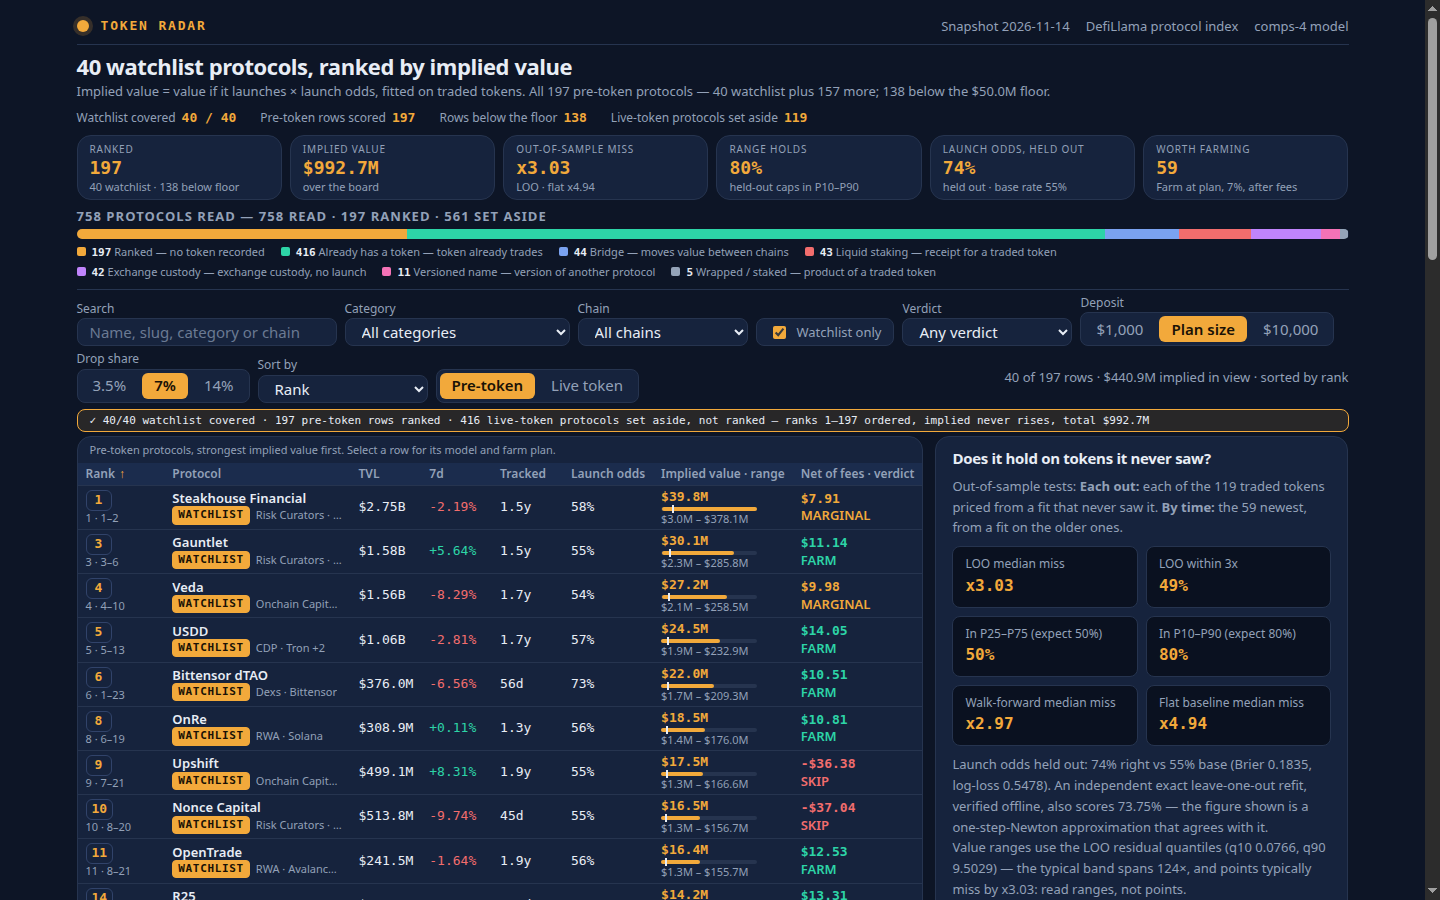
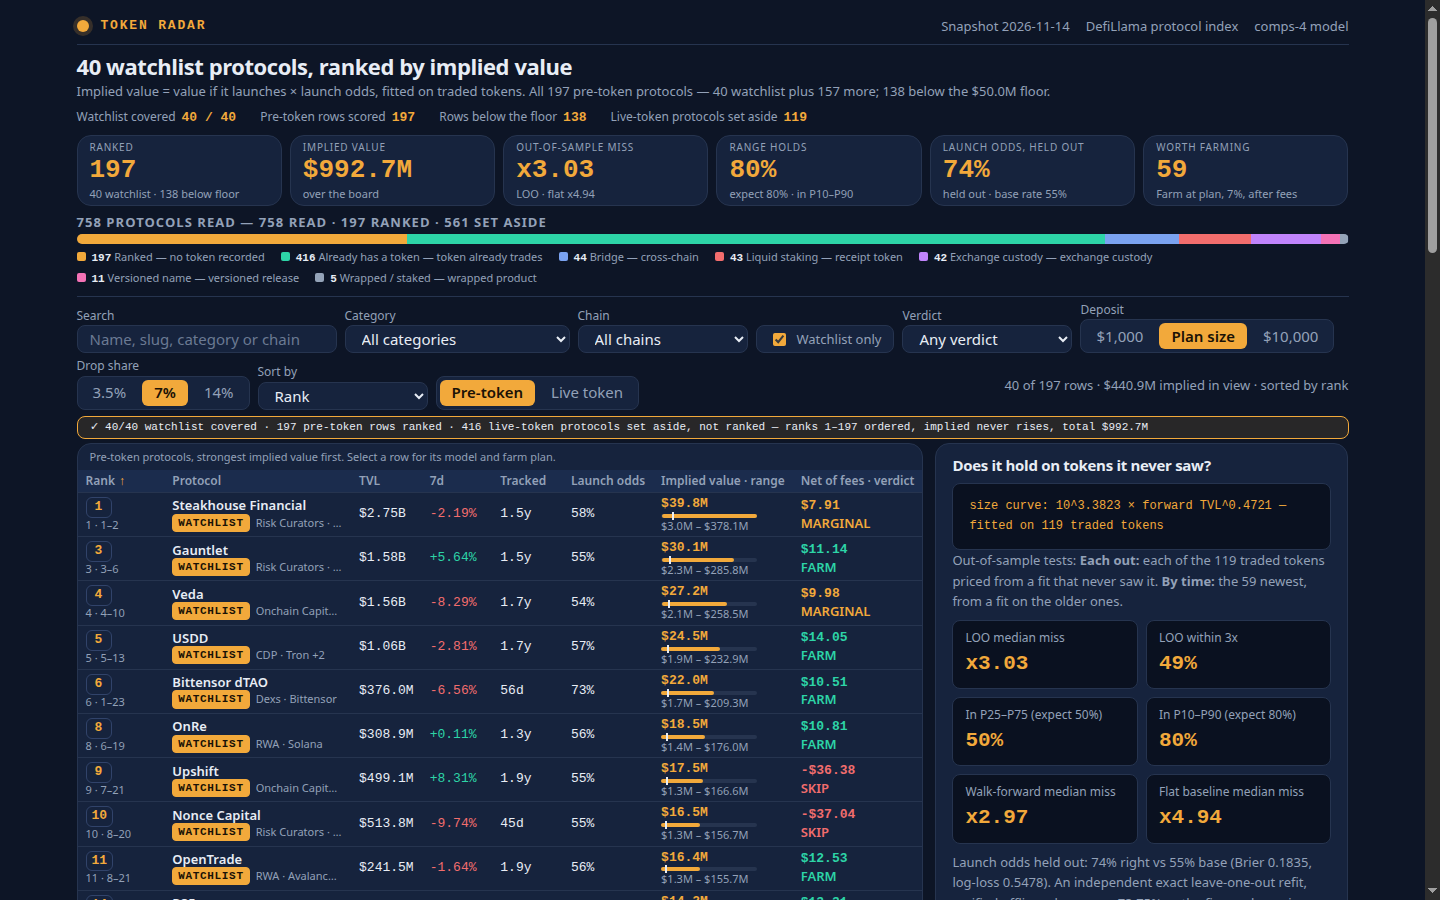
token-radar-01: comps-9 — bigger validation numbers in shot 1 (26px KPI, fitted-curve formula box, 21px validation tiles); model unchanged

diff --git a/dashboard/app.js b/dashboard/app.js
@@ -181,7 +181,7 @@ var tiles = [
 ['Ranked', String(k.ranked !== undefined ? k.ranked : DATA.board_size), (DATA.watchlist_size || 0) + ' watchlist · ' + rowsAll.filter(function (r) { return r.tvl_usd < DATA.floor_usd; }).length + ' below floor'],
 ['Implied value', fmtUsd(total), 'over the board'],
 ['Out-of-sample miss', (k.loo_miss !== undefined ? k.loo_miss : k.loo_median_miss) !== undefined ? 'x' + (k.loo_miss !== undefined ? k.loo_miss : k.loo_median_miss).toFixed(2) : 'n/a', 'LOO · flat x' + (DATA.validation && DATA.validation.flat_baseline ? DATA.validation.flat_baseline.median_miss.toFixed(2) : 'n/a')],
-['Range holds', k.range_holds_pct !== undefined ? Math.round(k.range_holds_pct) + '%' : 'n/a', 'held-out caps in P10–P90'],
+['Range holds', k.range_holds_pct !== undefined ? Math.round(k.range_holds_pct) + '%' : 'n/a', 'expect 80% · in P10–P90'],
 ['Launch odds, held out', k.launch_odds_accuracy_pct !== undefined ? Math.round(k.launch_odds_accuracy_pct) + '%' : 'n/a', 'held out · base rate ' + (DATA.validation && DATA.validation.launch_odds ? Math.round(DATA.validation.launch_odds.base_rate_pct) + '%' : 'n/a')],
 ['Worth farming', String(worth), 'Farm at plan, 7%, after fees']
 ];
@@ -189,7 +189,7 @@ $('kpi').innerHTML = tiles.map(function (t) { return '<div class="kpi-tile"><spa
 }
 var ACCT_COLORS = ['#f2a93b', '#2dd4a7', '#7aa2f0', '#f26d6d', '#c084fc', '#f472b6', '#94a3b8', '#eab308', '#38bdf8', '#a3e635'];
 var ACCT_LABEL = { 'Ranked — pre-token, standalone': 'Ranked', 'Liquid staking / restaking': 'Liquid staking', 'Exchange custody (CEX)': 'Exchange custody', 'Wrapped / staked by name': 'Wrapped / staked' };
-var ACCT_SHORT = { 'Ranked — pre-token, standalone': 'no token recorded', 'Already has a token': 'token already trades', 'Bridge': 'moves value between chains', 'Liquid staking / restaking': 'receipt for a traded token', 'Exchange custody (CEX)': 'exchange custody, no launch', 'Versioned name': 'version of another protocol', 'Wrapped / staked by name': 'product of a traded token' };
+var ACCT_SHORT = { 'Ranked — pre-token, standalone': 'no token recorded', 'Already has a token': 'token already trades', 'Bridge': 'cross-chain', 'Liquid staking / restaking': 'receipt token', 'Exchange custody (CEX)': 'exchange custody', 'Versioned name': 'versioned release', 'Wrapped / staked by name': 'wrapped product' };
 function renderAccounting() {
 var acc = DATA.accounting;
 var sec = document.querySelector('.acct');
@@ -272,7 +272,8 @@ if (v.walkforward && v.walkforward.median_miss > v.loo.median_miss * 1.2) caveat
 if (v.flat_baseline && v.flat_baseline.median_miss <= v.loo.median_miss) caveats.push('Flat baseline (x' + v.flat_baseline.median_miss.toFixed(2) + ') matches the fitted curve — the curve adds little here.');
 if (v.launch_odds && v.launch_odds.accuracy_pct < v.launch_odds.base_rate_pct) caveats.push('Launch odds call fewer right (' + Math.round(v.launch_odds.accuracy_pct) + '%) than the ' + Math.round(v.launch_odds.base_rate_pct) + '% base rate — the odds add no signal here.');
 if (!caveats.length) caveats.push('Small figures miss worst.');
-vel.innerHTML = '<p class="sub">Out-of-sample tests: <b>Each out:</b> each of the ' + (v.loo.n || 0) + ' traded tokens priced from a fit that never saw it. <b>By time:</b> the ' + (v.walkforward ? v.walkforward.n : 0) + ' newest, from a fit on the older ones.</p>' +
+vel.innerHTML = '<p class="formula">size curve: 10^' + M.curve_a + ' × forward TVL^' + M.curve_b + ' — fitted on ' + (v.loo.n || 0) + ' traded tokens</p>' +
+'<p class="sub">Out-of-sample tests: <b>Each out:</b> each of the ' + (v.loo.n || 0) + ' traded tokens priced from a fit that never saw it. <b>By time:</b> the ' + (v.walkforward ? v.walkforward.n : 0) + ' newest, from a fit on the older ones.</p>' +
 '<div class="vstat"><div><span>LOO median miss</span><b>x' + v.loo.median_miss.toFixed(2) + '</b></div><div><span>LOO within 3x</span><b>' + Math.round(v.loo.within_3x_pct) + '%</b></div><div><span>In P25–P75 (expect 50%)</span><b>' + Math.round(v.loo.in_p25_p75_pct) + '%</b></div><div><span>In P10–P90 (expect 80%)</span><b>' + Math.round(v.loo.in_p10_p90_pct) + '%</b></div><div><span>Walk-forward median miss</span><b>x' + (v.walkforward ? v.walkforward.median_miss.toFixed(2) : 'n/a') + '</b></div><div><span>Flat baseline median miss</span><b>x' + (v.flat_baseline ? v.flat_baseline.median_miss.toFixed(2) : 'n/a') + '</b></div></div>' +
 '<p class="sub">Launch odds held out: ' + (v.launch_odds ? Math.round(v.launch_odds.accuracy_pct) + '% right vs ' + Math.round(v.launch_odds.base_rate_pct) + '% base (Brier ' + v.launch_odds.brier.toFixed(4) + ', log-loss ' + v.launch_odds.log_loss.toFixed(4) + '). An independent exact leave-one-out refit, verified offline, also scores 73.75% — the figure shown is a one-step-Newton approximation that agrees with it.' : 'not reported') + '</p>' +
 '<p class="sub">Value ranges use the LOO residual quantiles (q10 ' + v.loo.q10 + ', q90 ' + v.loo.q90 + ') — the typical band spans ' + Math.round(v.loo.q90 / v.loo.q10) + '×, and points typically miss by x' + v.loo.median_miss.toFixed(2) + ': read ranges, not points.</p>' +

diff --git a/dashboard/app.css b/dashboard/app.css
@@ -121,9 +121,9 @@ td:first-child .sub{white-space:nowrap}
 *,*::before,*::after{transition-duration:.01ms!important;animation-duration:.01ms!important;animation-iteration-count:1!important}
 }
 .kpi{display:grid;grid-template-columns:repeat(6,1fr);gap:var(--s2);padding-bottom:var(--s2)}
-.kpi-tile{background:var(--surface);border:1px solid var(--border);border-radius:var(--r2);padding:6px var(--s3);display:grid;gap:1px;align-content:start}
+.kpi-tile{background:var(--surface);border:1px solid var(--border);border-radius:var(--r2);padding:4px var(--s3);display:grid;gap:1px;align-content:start}
 .kpi-tile span{color:var(--muted);font-size:10px;letter-spacing:.08em;text-transform:uppercase}
-.kpi-tile b{font-size:18px;line-height:1.15;font-family:var(--font-num);font-weight:600;color:var(--amber)}
+.kpi-tile b{font-size:26px;line-height:1.15;font-family:var(--font-num);font-weight:600;color:var(--amber)}
 .kpi-tile small{color:var(--muted);font-size:11px;line-height:1.25}
 .acct{padding-bottom:var(--s2)}
 .acct h2{margin-bottom:4px;color:var(--muted);font-size:13px;letter-spacing:.08em;text-transform:uppercase}
@@ -151,7 +151,7 @@ td:first-child .sub{white-space:nowrap}
 .vstat{display:grid;grid-template-columns:repeat(2,1fr);gap:var(--s2);margin:var(--s3) 0}
 .vstat div{background:var(--bg2);border:1px solid var(--border);border-radius:var(--r1);padding:var(--s2) var(--s3)}
 .vstat span{display:block;color:var(--muted);font-size:12px}
-.vstat b{font-family:var(--font-num);font-size:16px;color:var(--amber)}
+.vstat b{font-family:var(--font-num);font-size:21px;color:var(--amber)}
 .checkstrip{font-family:var(--font-num);font-size:11px;line-height:1.4;background:rgba(242,169,59,.12);border:1px solid var(--amber);border-radius:var(--r1);padding:3px var(--s3);margin-bottom:4px;color:var(--ink)}
 .checklist{margin:0;padding-left:var(--s5);display:grid;gap:var(--s2);font-size:13px;color:var(--muted)}
 .checklist b{color:var(--ink)}

diff --git a/README.md b/README.md
@@ -6,9 +6,9 @@
 
 A token launch radar: it reads a sealed DefiLlama snapshot of 758 protocols and writes a web dashboard that ranks the 197 pre-token, standalone protocols by what their launch would be worth, each with a costed farm plan and a FARM / MARGINAL / SKIP verdict.
 
-## The model ("comps-8" — comps-7 + louder C1 coverage ribbon and farm-plan timeline)
+## The model ("comps-9" — comps-8 + bigger validation numbers in shot 1: 26px KPI values, fitted size-curve formula box leading the validation panel, 21px validation tiles)
 
-comps-8 keeps the comps-7 model and layout unchanged and makes the working-radar evidence louder in the screenshots: a filled amber coverage ribbon above the board ("40/40 watchlist covered · 197 pre-token rows ranked · 416 live-token protocols set aside, not ranked"), filled WATCHLIST badges in the table, and a one-line "Plan timeline" at the top of each detail-view farm plan. See MODEL_NOTES.md.
+comps-9 keeps the comps-8 model and layout unchanged and makes the validation figures as prominent in the screenshots as rank #1's are in its: the six KPI numbers (197, $992.7M, ×3.03, 80%, 74%, 59) are now 26px, the validation panel opens with the fitted size curve "10^3.3823 × forward TVL^0.4721 — fitted on 119 traded tokens", and its six holdout tiles are 21px. The filled amber coverage ribbon ("40/40 watchlist covered · 197 pre-token rows ranked · 416 live-token protocols set aside, not ranked"), filled WATCHLIST badges, and one-line "Plan timeline" in each detail-view farm plan are kept from comps-8. See MODEL_NOTES.md.
 
 Implied value follows from the snapshot's own figures — no hardcoded names:
 
